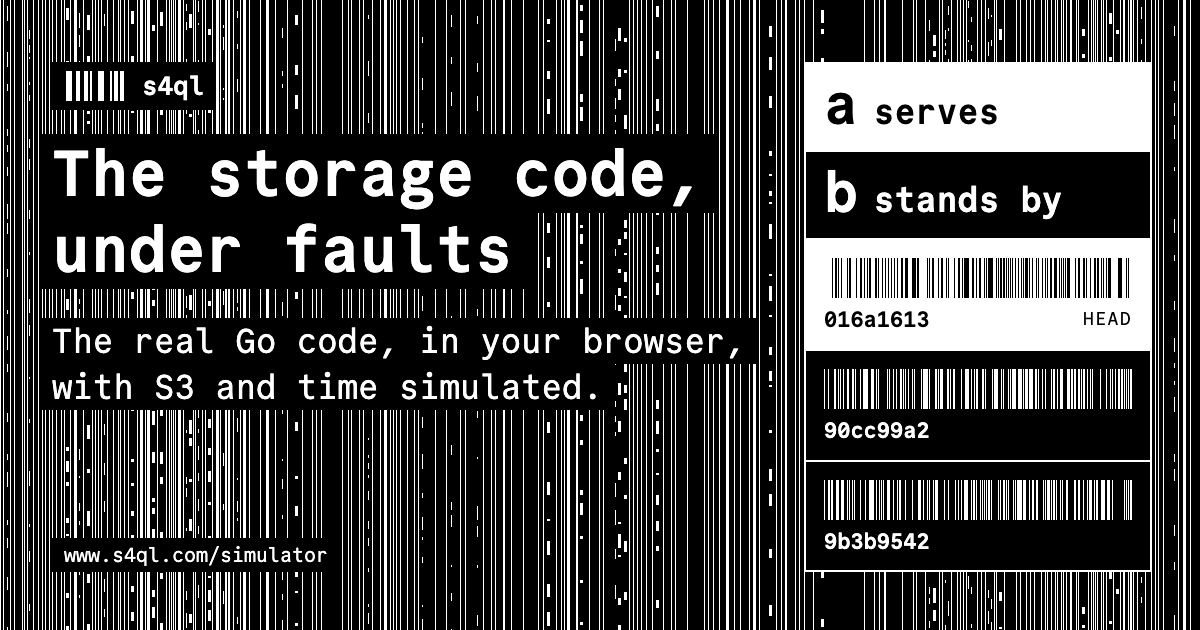
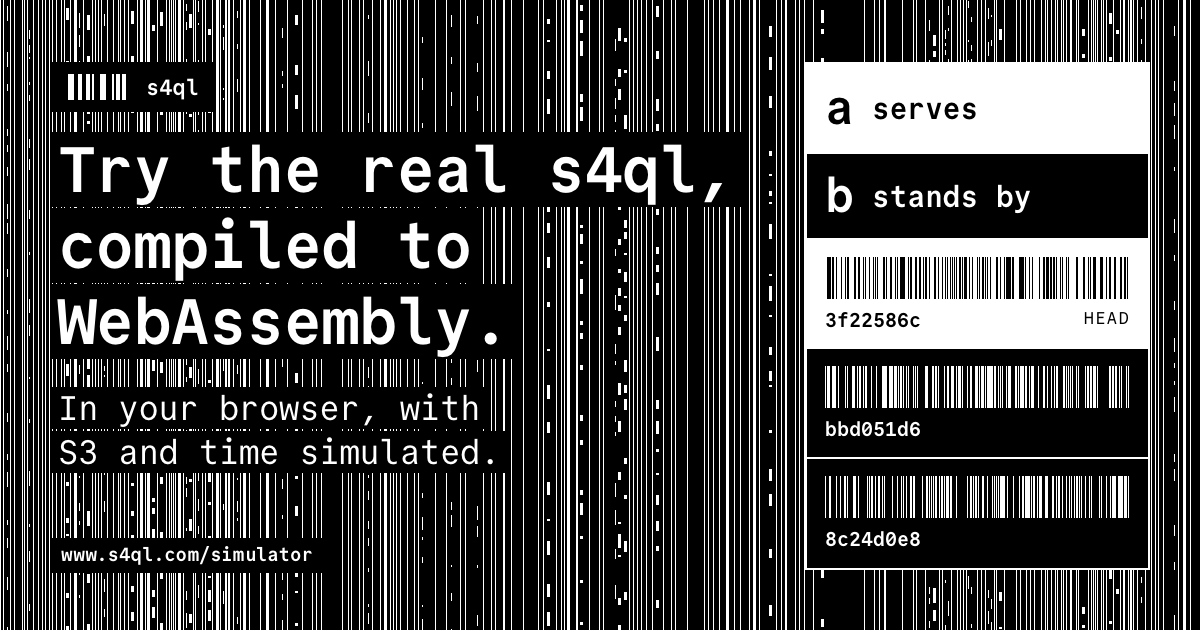
Cut the simulator's top to one headline under the stars, move its description above the footer, and spread the sky over the whole page
The hero reads "Try the real s4ql, compiled to WebAssembly.", and the two paragraphs and the
"Built from" line move into a band of their own, "What runs here", below the SQL box. The sky now
keeps clear of the header, of the sticky bar where it stands before it sticks, of the rules across
the page, and of the boxes and words, instead of everything above the panel and the band of SQL.
The note above the SQL box goes, and `og.png`, the title, and the image's alt text carry the new
headline.

diff --git a/site/simulator/index.html b/site/simulator/index.html
@@ -3,7 +3,7 @@
 <head>
 <meta charset="utf-8">
 <meta name="viewport" content="width=device-width, initial-scale=1">
-<title>s4ql simulator: the storage code under faults, in your browser</title>
+<title>s4ql simulator: try the real s4ql, compiled to WebAssembly</title>
 <meta name="description" content="The storage code of s4ql, compiled to WebAssembly, runs in your browser on the official SQLite WebAssembly build, with a simulated S3 and simulated time. One instance serves, a second stands by to take over. Crash or stop either, hang or cut its connection to S3, fail its disk, or move its clocks, and watch what the code does.">
 <meta name="theme-color" content="#000000">
 <link rel="canonical" href="https://www.s4ql.com/simulator/">
@@ -16,13 +16,13 @@
 <meta property="og:type" content="website">
 <meta property="og:site_name" content="s4ql">
 <meta property="og:url" content="https://www.s4ql.com/simulator/">
-<meta property="og:title" content="s4ql simulator: the storage code under faults, in your browser">
+<meta property="og:title" content="s4ql simulator: try the real s4ql, compiled to WebAssembly">
 <meta property="og:description" content="The storage code of s4ql runs in your browser as WebAssembly, with a simulated S3 and simulated time. One instance serves, a second stands by to take over. Crash it, cut it off from S3, fail its disk, or move its clocks, and watch what the code does.">
 <meta property="og:image" content="https://www.s4ql.com/simulator/og.png">
 <meta property="og:image:type" content="image/png">
 <meta property="og:image:width" content="1200">
 <meta property="og:image:height" content="630">
-<meta property="og:image:alt" content="s4ql. The storage code, under faults. The real Go code, in your browser, with S3 and time simulated. Beside the text, a panel shows instance a serving, instance b standing by, and three commit objects as bar codes. Black and white, on a field of bars.">
+<meta property="og:image:alt" content="s4ql. Try the real s4ql, compiled to WebAssembly. In your browser, with S3 and time simulated. Beside the text, a panel shows instance a serving, instance b standing by, and three commit objects as bar codes. Black and white, on a field of bars.">
 <meta name="twitter:card" content="summary_large_image">
 <link rel="preload" href="../fonts/commit-mono-400.woff2" as="font" type="font/woff2" crossorigin>
 <link rel="modulepreload" href="run.js">
@@ -224,34 +224,26 @@ code { font-family: inherit; }
 .btn.big { min-height: 44px; padding: 10px 16px; font-size: 14px; gap: 16px; }
 .btn.play { min-width: 9.5em; justify-content: space-between; }
 
-/* Intro */
+/* The hero: the headline alone, large, with the sky around it. Its width is that of its longest
+   line, so that the sky keeps clear of the words and not of the whole band. */
 
-.intro { border-bottom: var(--rule); padding: 20px 0; }
-.intro .wrap {
-  display: grid;
-  grid-template-columns: minmax(0, 4fr) minmax(0, 7fr);
-  gap: 12px 56px;
-  align-items: start;
-}
+.intro { border-bottom: var(--rule); padding: clamp(48px, 6.5vw, 96px) 0; }
 h1 {
-  font-size: clamp(26px, 2.4vw, 36px);
-  line-height: 1.06;
+  width: fit-content;
+  max-width: 25ch;
+  font-size: clamp(30px, 5.6vw, 80px);
+  line-height: 1.04;
   letter-spacing: -0.035em;
   font-weight: 700;
   margin: 0;
   text-wrap: balance;
 }
-.intro p { max-width: 74ch; margin: 0 0 6px; font-size: 14px; line-height: 1.55; }
-.intro p.built { font-size: 13px; margin: 10px 0 0; }
 h2 {
   font-size: 14px;
   font-weight: 700;
   text-transform: uppercase;
   letter-spacing: 0.08em;
   margin: 0;
-}
-@media (max-width: 960px) {
-  .intro .wrap { grid-template-columns: minmax(0, 1fr); }
 }
 
 /* The bar: playback, the clock, and the field of the last two fake minutes */
@@ -680,6 +672,18 @@ h2 {
   .ask { padding: 24px 0 32px; }
   .ask-head { margin-bottom: 16px; }
 }
+/* What runs here, at the foot of the page, in a band like that of SQL. Its heading and its lines are
+   as wide as their words, so that the sky keeps clear of the words and not of the whole band. */
+
+.about { border-bottom: var(--rule); padding: 32px 0 40px; }
+.about h2 { width: fit-content; font-size: 32px; line-height: 1; letter-spacing: -0.02em; text-transform: none; margin: 0 0 20px; }
+.about p { width: fit-content; max-width: 74ch; margin: 0 0 6px; font-size: 14px; line-height: 1.55; }
+.about p.built { font-size: 13px; margin: 10px 0 0; }
+
+@media (max-width: 720px) {
+  .about { padding: 24px 0 32px; }
+  .about h2 { margin-bottom: 16px; }
+}
 @media (max-width: 520px) {
   .entries li { gap: 10px; padding: 4px 16px; }
   .log-head, .commit, .entries li.empty, .commits li.empty { padding-left: 16px; padding-right: 16px; }
@@ -687,15 +691,15 @@ h2 {
   .sql-rows th:first-child, .sql-rows td:first-child { padding-left: 16px; }
 }
 
-/* The night sky, behind everything: stars of one pixel or a few, in the margins and gutters. The
-   script after #sky places them where there is no content, and the bands and boxes that hold
-   content are opaque over the sky besides. A pixel of a star is a whole number of device pixels, at
+/* The night sky, behind everything below the header: stars of one pixel or a few, in the empty space
+   around the content. The script in the head places them where there is no content, and the boxes
+   that hold dense content, the header, and the sticky bar are opaque over the sky besides. A pixel of a star is a whole number of device pixels, at
    least one, which the script gives as --p. Most stars are drawn once into one SVG; a few twinkle,
    each in an element of its own whose opacity steps, without fades, in an animation that the
    compositor runs by itself, each in its own time. The sky scrolls with the page. Under reduced
    motion the stars stand still, and in print and in forced colours there are none. */
 body { position: relative; isolation: isolate; }
-.intro, .requests, .node, .box, .s3, .logs, .ask { background: var(--void); }
+.requests, .node, .box, .s3, .logs, .ask-box { background: var(--void); }
 /* The stick figure walks in front of the sky. Each of its pixels has a black border two of its
    pixels wide, under the white ones and cut off at the edges of its box, so that a star next to it
    or inside its head is hidden and one farther off is seen apart from it, not as a stray pixel or
@@ -768,11 +772,15 @@ document.addEventListener("DOMContentLoaded", () => {
   const CELL = 40, CHANCE = 0.34, CLEAR = 10;
   // BLINKS and GLINTS are the most stars that blink, and that glint as a plus, on the page.
   const BLINKS = 12, GLINTS = 3;
-  // CONTENT is what stars keep clear of besides the bands: everything above .panel, and .ask. Content
-  // added to the page outside these needs adding here, and to the elements that the ResizeObserver
-  // below watches if its size can change alone. The stick figure #dancer is left out: it walks along
-  // the top line of .logs in front of the sky, by a transform that changes no layout.
-  const CONTENT = ".requests, .fork, .inst, .s3, .logs, footer p, footer li";
+  // The sky is everywhere below the header. Stars keep clear of the header, of the sticky bar where it
+  // stands before it sticks, of the rules across the page of the elements RULED, of the boxes BOXES,
+  // and of the words WORDS, whose glyphs can reach out of their boxes where the lines are tight.
+  // Content added to the page needs adding here, and to the elements that the ResizeObserver below
+  // watches if its size can change alone. The stick figure #dancer is left out: it walks along the
+  // top line of .logs in front of the sky, by a transform that changes no layout.
+  const BOXES = "#failure, .requests, .fork, .inst, .s3, .logs, .ask-box";
+  const WORDS = "h1, .ask-head > *, .about h2, .about p, footer p, footer li";
+  const RULED = ".intro, .ask, .about";
   // LEVELS are the opacities of the stars that do not twinkle.
   const LEVELS = [0.26, 0.38, 0.52];
   // rnd is a number in [0, 1), the same for each call with the cell i, j and the draw n in this load.
@@ -807,12 +815,24 @@ document.addEventListener("DOMContentLoaded", () => {
     // out are the rectangles, from the sky's top left, where no part of a star may be.
     const out = [];
     const add = (l, t, r, b) => out.push([l - o.left - CLEAR, t - o.top - CLEAR, r - o.left + CLEAR, b - o.top + CLEAR]);
-    const panel = document.querySelector(".panel").getBoundingClientRect(), ask = document.querySelector(".ask").getBoundingClientRect();
-    add(-Infinity, -Infinity, Infinity, panel.top);
-    add(-Infinity, ask.top, Infinity, ask.bottom);
-    for (const el of document.querySelectorAll(CONTENT)) {
+    add(-Infinity, -Infinity, Infinity, document.querySelector("header").getBoundingClientRect().bottom);
+    // The bar sticks to the top of the window as the page scrolls, and covers the stars that it
+    // passes. Where it stands before that is right below the hero, whatever the scroll.
+    const hero = document.querySelector(".intro").getBoundingClientRect();
+    add(-Infinity, hero.bottom, Infinity, hero.bottom + document.querySelector(".bar").offsetHeight);
+    for (const el of document.querySelectorAll(RULED)) {
+      const r = el.getBoundingClientRect(), s = getComputedStyle(el), top = parseFloat(s.borderTopWidth), bottom = parseFloat(s.borderBottomWidth);
+      if (top) add(-Infinity, r.top, Infinity, r.top + top);
+      if (bottom) add(-Infinity, r.bottom - bottom, Infinity, r.bottom);
+    }
+    const words = document.createRange();
+    for (const el of document.querySelectorAll(BOXES + ", " + WORDS)) {
       const r = el.getBoundingClientRect();
       if (r.width || r.height) add(r.left, r.top, r.right, r.bottom);
+      if (!el.matches(WORDS)) continue;
+      words.selectNodeContents(el);
+      const g = words.getBoundingClientRect();
+      if (g.width || g.height) add(g.left, g.top, g.right, g.bottom);
     }
     // The edges of the instances to S3 run below their boxes, down to S3, where the instances stand
     // side by side.
@@ -881,7 +901,7 @@ document.addEventListener("DOMContentLoaded", () => {
   // of its parts changes size, or the sky is hidden or shown again, as for print; the device pixel
   // ratio changes on a move to another screen.
   const observer = new ResizeObserver(draw);
-  for (const el of [sky, document.body, ...document.querySelectorAll(".panel, .instances, .s3, .logs, .ask, footer")]) observer.observe(el);
+  for (const el of [sky, document.body, ...document.querySelectorAll("h1, #failure, .panel, .instances, .s3, .logs, .ask, .ask-head > *, .about, .about h2, .about p, footer")]) observer.observe(el);
   const watch = () => matchMedia(`(resolution: ${window.devicePixelRatio || 1}dppx)`).addEventListener("change", () => { draw(); watch(); }, { once: true });
   watch();
 });
@@ -909,12 +929,7 @@ document.addEventListener("DOMContentLoaded", () => {
 
 <section class="intro" aria-labelledby="intro-h">
   <div class="wrap">
-    <h1 id="intro-h">The storage code, under faults</h1>
-    <div>
-      <p>The storage code of s4ql runs in this page: the Go code itself, unchanged, compiled to WebAssembly, with its cache on the official SQLite WebAssembly build. S3 and time are simulated.</p>
-      <p>s4ql is built for one long-running instance per database, an app with s4ql embedded. Here requests to the app, each one SQL statement, go to one instance, and a second stands by to take over. <a href="#sql">Send one of your own</a>.</p>
-      <p class="built"><span class="caps">Built from</span> <span id="build">an unknown commit</span> of <a href="https://github.com/maragudk/s4ql/tree/main/internal/core"><code>internal/core</code></a> and <a href="https://github.com/maragudk/s4ql/tree/main/internal/engine"><code>internal/engine</code></a>, run by <a href="https://github.com/maragudk/s4ql/blob/main/internal/simulator/README.md"><code>internal/simulator</code></a>.</p>
-    </div>
+    <h1 id="intro-h">Try the real s4ql, compiled to WebAssembly.</h1>
   </div>
 </section>
 
@@ -1075,9 +1090,8 @@ document.addEventListener("DOMContentLoaded", () => {
     <div class="ask-head"><h2 class="letter" id="sql-h">SQL</h2><span id="sql-to"></span></div>
     <div class="ask-box">
       <form class="sql-form" id="sql-form">
-        <p class="small" id="sql-note">One statement of what s4ql supports so far, see the <a href="../#roadmap">roadmap</a>. The app's table <code>barcodes</code> is there to read; make tables of your own to write.</p>
         <label class="vh" for="sql-text">Statement</label>
-        <textarea id="sql-text" rows="3" spellcheck="false" autocomplete="off" autocapitalize="off" aria-describedby="sql-note">select code from barcodes order by code desc limit 5</textarea>
+        <textarea id="sql-text" rows="3" spellcheck="false" autocomplete="off" autocapitalize="off">select code from barcodes order by code desc limit 5</textarea>
         <div class="sql-run">
           <button class="btn" type="submit" id="sql-run" aria-keyshortcuts="Control+Enter Meta+Enter" disabled>Run</button>
           <span class="caps" id="sql-keys">Ctrl+Enter</span>
@@ -1088,6 +1102,15 @@ document.addEventListener("DOMContentLoaded", () => {
         <div class="sql-rows" id="sql-rows" tabindex="0" aria-label="Rows" hidden></div>
       </div>
     </div>
+  </div>
+</section>
+
+<section class="about" aria-labelledby="about-h">
+  <div class="wrap">
+    <h2 class="letter" id="about-h">What runs here</h2>
+    <p>The storage code of s4ql runs in this page: the Go code itself, unchanged, compiled to WebAssembly, with its cache on the official SQLite WebAssembly build. S3 and time are simulated.</p>
+    <p>s4ql is built for one long-running instance per database, an app with s4ql embedded. Here requests to the app, each one SQL statement, go to one instance, and a second stands by to take over. <a href="#sql">Send one of your own</a>.</p>
+    <p class="built"><span class="caps">Built from</span> <span id="build">an unknown commit</span> of <a href="https://github.com/maragudk/s4ql/tree/main/internal/core"><code>internal/core</code></a> and <a href="https://github.com/maragudk/s4ql/tree/main/internal/engine"><code>internal/engine</code></a>, run by <a href="https://github.com/maragudk/s4ql/blob/main/internal/simulator/README.md"><code>internal/simulator</code></a>.</p>
   </div>
 </section>
 

diff --git a/internal/simulator/sitecheck/check.html b/internal/simulator/sitecheck/check.html
@@ -976,14 +976,12 @@ async function soundWakes(p) {
   expect(sound.getAttribute("aria-pressed") === "false" && !p.win.s4qlPage.playing, "sound is off again, and the page is paused");
 }
 
-// sqlBox checks the box for SQL on the paused page: its line, its example, a select on barcodes, a
-// table of the visitor's own with inserts and a select with order by and limit, an error of the
-// engine, the refusal of a write to barcodes, the limit of its length, and a statement that waits
-// while the connection to S3 hangs. While paused, Run moves fake time only until the answer.
+// sqlBox checks the box for SQL on the paused page: its label and keys, its example, a select on
+// barcodes, a table of the visitor's own with inserts and a select with order by and limit, an error
+// of the engine, the refusal of a write to barcodes, the limit of its length, and a statement that
+// waits while the connection to S3 hangs. While paused, Run moves fake time only until the answer.
 async function sqlBox(p) {
-  const note = p.$("#sql-note"), link = note.querySelector("a");
-  expect(link && new URL(link.href).pathname === "/" && new URL(link.href).hash === "#roadmap" && /barcodes/.test(note.textContent) && p.$('label[for="sql-text"]') && p.$("#sql-run").getAttribute("aria-keyshortcuts"),
-    `the box says what SQL works, links to the roadmap, names barcodes, and has a label and keys (${note.textContent})`);
+  expect(p.$('label[for="sql-text"]') && p.$("#sql-run").getAttribute("aria-keyshortcuts"), "the box has a label and keys");
   const example = p.$("#sql-text").value;
   expect(/^select code from barcodes/.test(example), `the box holds a working example at first (${example})`);
   const rows = () => [...p.$("#sql-rows").querySelectorAll("tbody tr")].map((tr) => [...tr.children].map((td) => td.textContent).join(" "));
